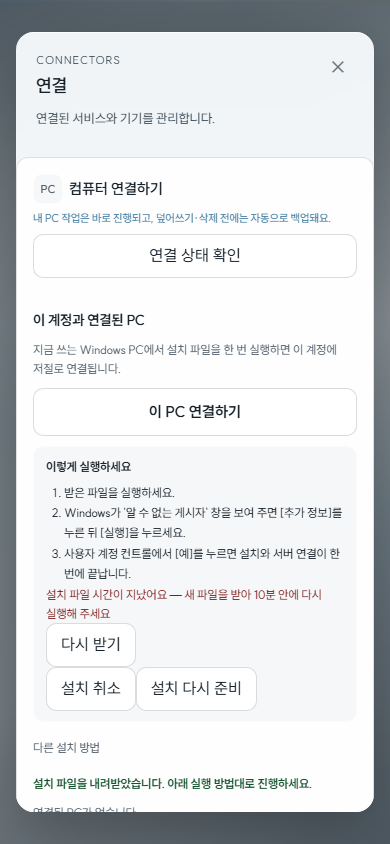
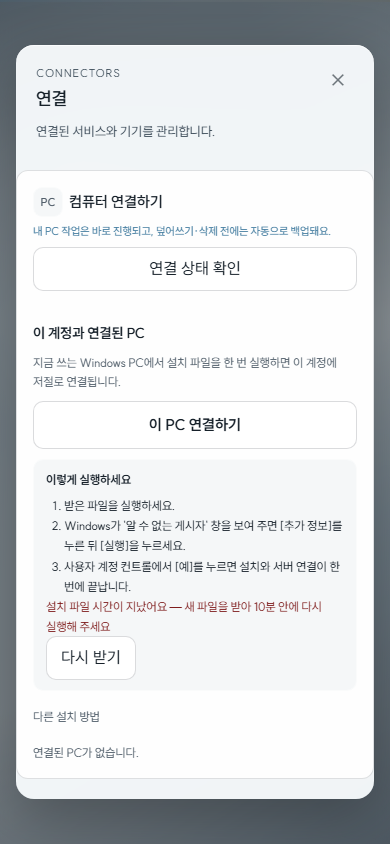
fix(chat): 만료 카드에서 받음 문구와 설치 단추 숨기기 (#7962)
CTO 캡처 검토 반영:
- 만료되면 초록 "설치 파일을 내려받았습니다" 줄과 설치 취소·설치 다시 준비
  단추를 숨기고 다시 받기만 남긴다(내 컴퓨터 모달의 만료 화면과 같은 모양).
- 다시 받기로 새 파일을 받으면 받음 문구·남은 시간·설치 단추가 다시 보인다.
- 브라우저 하네스 시험 3건 추가(41건), 1440·390 만료 캡처 재촬영.

diff --git a/apps/padiem-chat/tests/pc_pairing_card_harness.js b/apps/padiem-chat/tests/pc_pairing_card_harness.js
@@ -326,6 +326,33 @@ async function main() {
     && expiredBox.allText().includes("10분 안에 다시 실행")
     && redownload && redownload.hidden === false,
     expiredSection.allText());
+  // CTO review: the expired card must not keep the green "downloaded" line beside
+  // the red refusal, and only 다시 받기 stays of the three install buttons - the
+  // same shape as the 내 컴퓨터 modal's expired screen.
+  const expiredStatus = expiredSection.ids().find(
+    (n) => (n.className || "") === "pc-pairing-status");
+  const installToolsOnExpired = expiredSection.ids().find(
+    (n) => (n.className || "") === "pc-pairing-install-tools");
+  const shownThroughParents = (node) => {
+    let at = node;
+    while (at) { if (at.hidden) return false; at = at.parent; }
+    return true;
+  };
+  const visibleText = (node) => node.hidden ? "" : [node.text,
+    ...node.children.map(visibleText)].join(" ");
+  const installButtons = ["pc-pairing-redownload", "pc-pairing-install-cancel",
+    "pc-pairing-install-reprepare"].map((cls) => expiredSection.ids()
+      .find((n) => n.matchesClass(cls)));
+  check("the expired card drops the green downloaded line",
+    expiredStatus && expiredStatus.hidden === true
+    && !visibleText(expiredSection).includes("설치 파일을 내려받았습니다"),
+    visibleText(expiredSection));
+  check("the expired card shows only 다시 받기 of the install buttons",
+    installButtons.every(Boolean) && installToolsOnExpired
+    && installToolsOnExpired.hidden === true
+    && installButtons.filter(shownThroughParents).length === 1
+    && installButtons.filter(shownThroughParents)[0] === redownload,
+    JSON.stringify(installButtons.map((n) => n && [n.allText(), shownThroughParents(n)])));
   const expiredDownloads = expiredCard.downloads.length;
   redownload.click();
   await settle();
@@ -334,6 +361,16 @@ async function main() {
       && call.url === "/api/pc/pairings/pcpair_expired01/token/reissue")
     && expiredCard.downloads.length === expiredDownloads + 1,
     JSON.stringify(expiredCard.calls));
+  const freshDeadline = expiredSection.ids().find(
+    (n) => n.matchesClass("pc-pairing-deadline"));
+  check("다시 받기 brings back the received line and the remaining time",
+    expiredStatus.hidden === false
+    && expiredStatus.allText().includes("설치 파일")
+    && /준비했습니다|내려받았습니다/.test(expiredStatus.allText())
+    && installToolsOnExpired.hidden === false
+    && freshDeadline && freshDeadline.hidden === false
+    && freshDeadline.allText().includes("남은 시간"),
+    expiredSection.allText());
 
   // -- #6695 PR-4: cancel or replace exactly the install just handed out -----
   const TOKEN = "pt_" + "a".repeat(32);

diff --git a/apps/padiem-chat/static/pc-pairing-card.js b/apps/padiem-chat/static/pc-pairing-card.js
@@ -561,6 +561,11 @@
       view.steps.hidden = false;
       view.wait.hidden = true;
       setExpired(true);
+      // #7962: the green "downloaded" line and the cancel/re-prepare controls
+      // contradict a dead file; only 다시 받기 stays, as in the modal, until a
+      // fresh file in rememberInstall() brings them back.
+      view.status.hidden = true;
+      view.installTools.hidden = true;
       view.expiredText.textContent = t.expired;
       view.redownload.textContent = t.redownload;
       view.redownload.disabled = false;
@@ -574,6 +579,7 @@
         expiresAt: typeof expiresAt === "string" && expiresAt ? expiresAt : null,
       };
       view.installTools.hidden = false;
+      view.status.hidden = false;
       setExpired(false);
       clearDeadline();
       paintDeadline();

diff --git a/apps/padiem-chat/tests/test_5573_pc_pairing_card_browser.py b/apps/padiem-chat/tests/test_5573_pc_pairing_card_browser.py
@@ -86,8 +86,10 @@ def test_the_harness_flow_passes_every_check():
     # resumes and disconnects, and the mesh identity and folder-approval UI that
     # stay off the screen while the server features stay in the module — plus
     # #6695 PR-4's install controls, which appear only after a download and can
-    # cancel the install or prepare a fresh file without ever holding the token.
-    assert output.count("PC_PAIRING_CARD_CHECK") == 38
+    # cancel the install or prepare a fresh file without ever holding the token,
+    # plus the CTO's expired-card shape: no green downloaded line, only 다시 받기
+    # of the install buttons, and both back after a fresh file is downloaded.
+    assert output.count("PC_PAIRING_CARD_CHECK") == 41
     assert "FAIL" not in output
 
 
